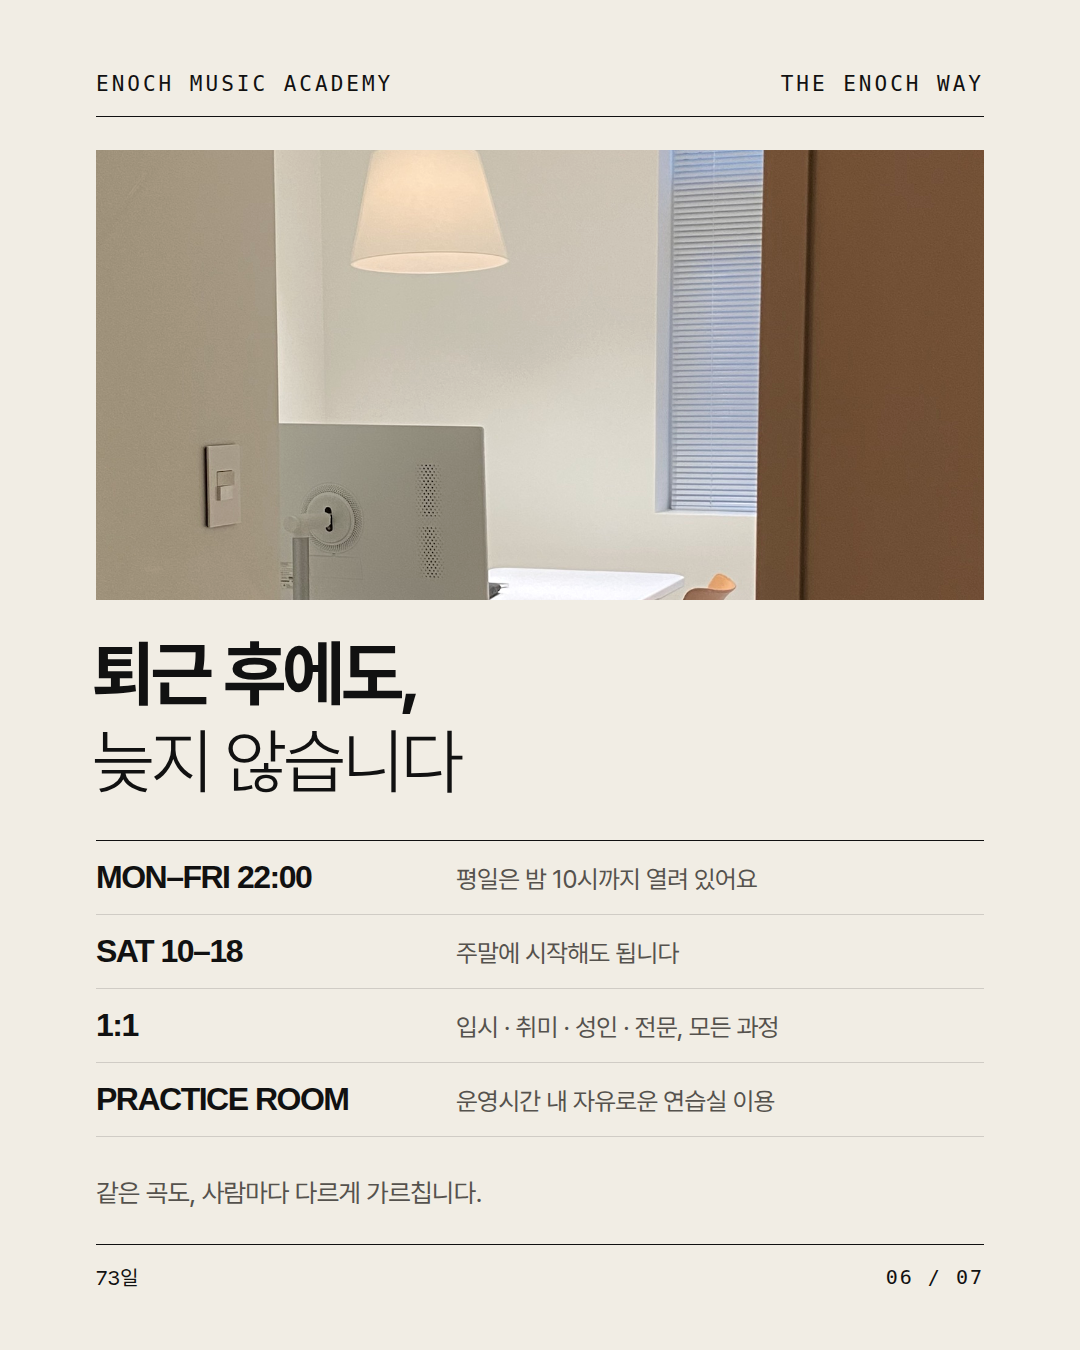
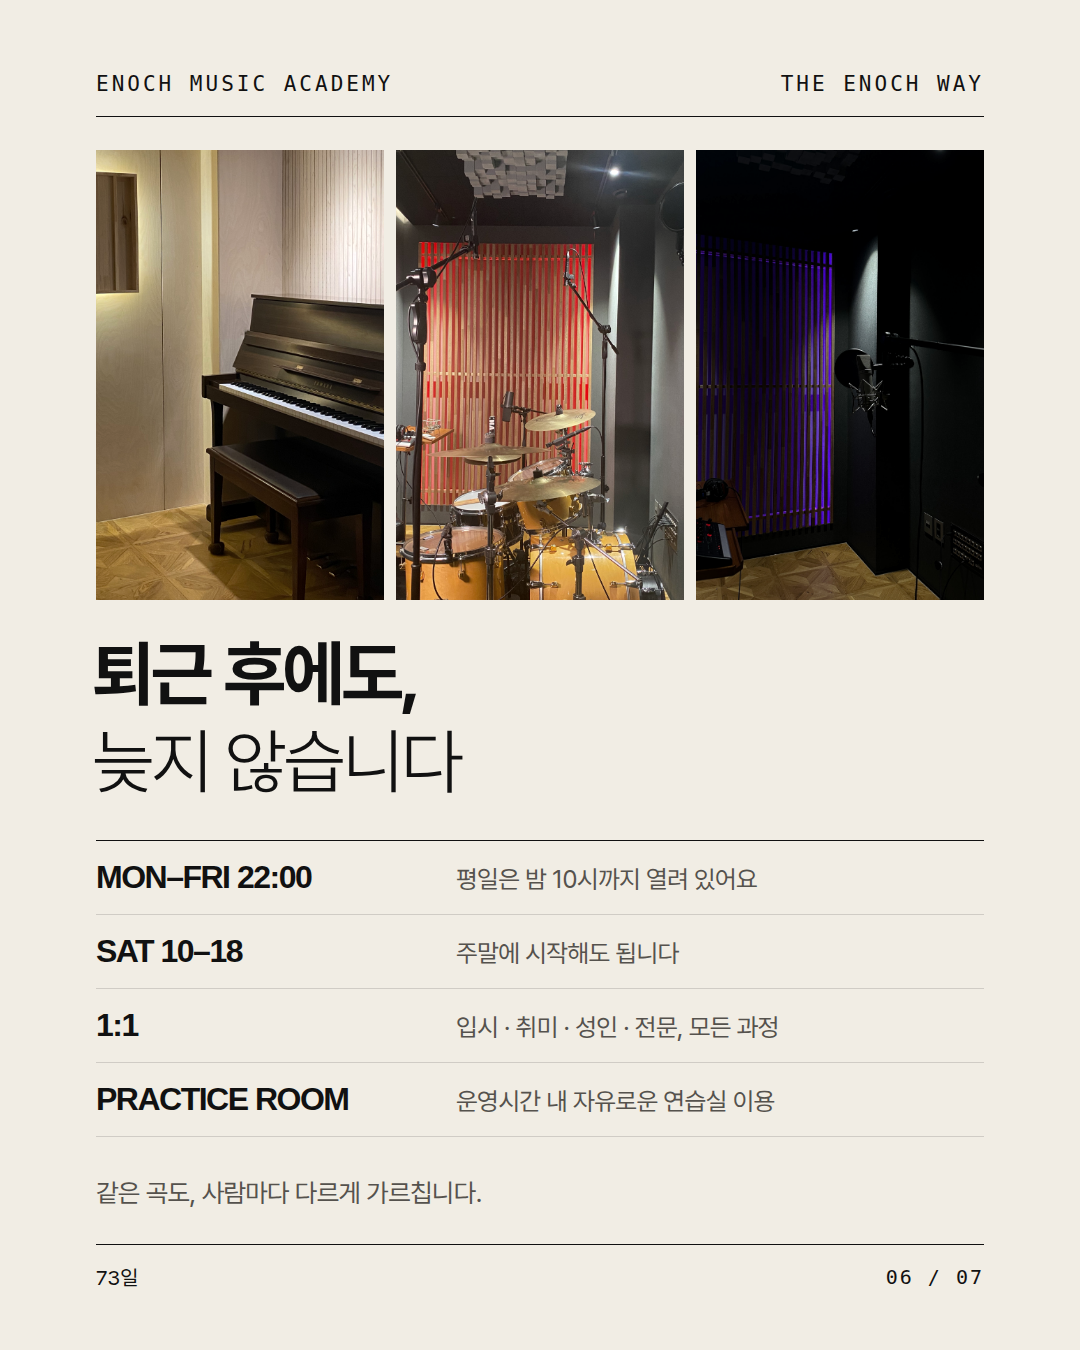
73일: 6장 학원 공간 사진 3장 (피아노룸·드럼룸·보컬부스), 공간 사진 추가
Claude-Session: https://claude.ai/code/session_01HGbZvgMeYrbU7mY8bwfjyb

Changed region(s): [[0.0917, 0.0933, 0.9167, 0.4667]]

diff --git a/output/노트_남은날짜/deck.html b/output/노트_남은날짜/deck.html
@@ -72,7 +72,9 @@
 <div class="h a" style="left:92px;top:680px">서툰 것 하나를,<br><em>곁에 두면</em></div>
 <div class="p a" style="left:96px;right:96px;top:920px">처음 몇 주는 티가 나지 않습니다.<br>그래도 하나씩 쌓이면, 12월의 나는 10월의 나와 분명히 다르거든요.<br>기준은 남이 아니라, <b>지난달의 나</b>예요.</div>
 <div class="ft"><span>73일</span><span>05 / 07</span></div></section><section class="s" id="c6"><div class="hd"><span>ENOCH MUSIC ACADEMY</span><span>THE ENOCH WAY</span></div>
-<img src="../../images/공간/상담실_01.jpg" style="position:absolute;left:96px;top:150px;width:888px;height:450px;object-fit:cover;object-position:50% 37%;display:block;filter:saturate(.85) contrast(1.02)">
+<img src="../../images/공간/피아노룸_01.jpg" style="position:absolute;top:150px;width:288px;height:450px;object-fit:cover;display:block;filter:saturate(.85) contrast(1.02);left:96px;object-position:82% 55%">
+<img src="../../images/공간/드럼룸_02.jpg" style="position:absolute;top:150px;width:288px;height:450px;object-fit:cover;display:block;filter:saturate(.85) contrast(1.02);left:396px;object-position:50% 60%">
+<img src="../../images/공간/보컬부스_02.jpg" style="position:absolute;top:150px;width:288px;height:450px;object-fit:cover;display:block;filter:saturate(.85) contrast(1.02);left:696px;object-position:58% 55%">
 <div class="h a" style="left:92px;top:630px">퇴근 후에도,<br><em>늦지 않습니다</em></div>
 <div class="a" style="left:96px;right:96px;top:840px;border-top:1.5px solid #111">
 <div class="step" style="padding:18px 0"><b style="font-size:32px">MON–FRI 22:00</b><span style="font-size:25px">평일은 밤 10시까지 열려 있어요</span></div>

diff --git a/output/노트_남은날짜/gen.py b/output/노트_남은날짜/gen.py
@@ -107,7 +107,9 @@ S.append(f"""<section class="s" id="c5">{HD("SMALL, BUT STEADY")}
 {FT(5)}</section>""")
 # 06 ENOCH
 S.append(f"""<section class="s" id="c6">{HD("THE ENOCH WAY")}
-<img src="../../images/공간/상담실_01.jpg" style="position:absolute;left:96px;top:150px;width:888px;height:450px;object-fit:cover;object-position:50% 37%;display:block;filter:saturate(.85) contrast(1.02)">
+<img src="../../images/공간/피아노룸_01.jpg" style="position:absolute;top:150px;width:288px;height:450px;object-fit:cover;display:block;filter:saturate(.85) contrast(1.02);left:96px;object-position:82% 55%">
+<img src="../../images/공간/드럼룸_02.jpg" style="position:absolute;top:150px;width:288px;height:450px;object-fit:cover;display:block;filter:saturate(.85) contrast(1.02);left:396px;object-position:50% 60%">
+<img src="../../images/공간/보컬부스_02.jpg" style="position:absolute;top:150px;width:288px;height:450px;object-fit:cover;display:block;filter:saturate(.85) contrast(1.02);left:696px;object-position:58% 55%">
 <div class="h a" style="left:92px;top:630px">퇴근 후에도,<br><em>늦지 않습니다</em></div>
 <div class="a" style="left:96px;right:96px;top:840px;border-top:1.5px solid #111">
 <div class="step" style="padding:18px 0"><b style="font-size:32px">MON–FRI 22:00</b><span style="font-size:25px">평일은 밤 10시까지 열려 있어요</span></div>
